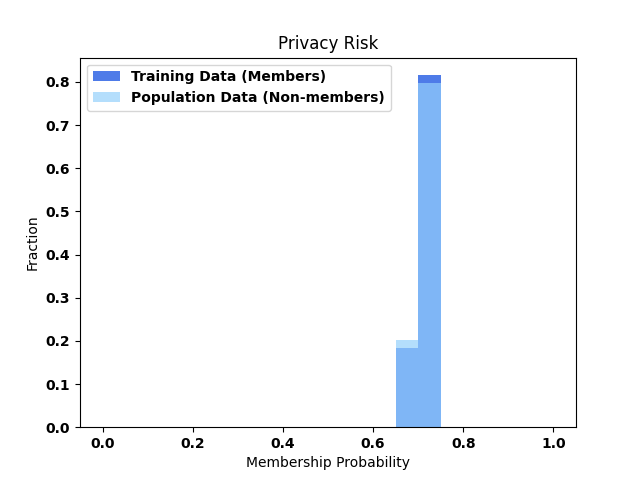
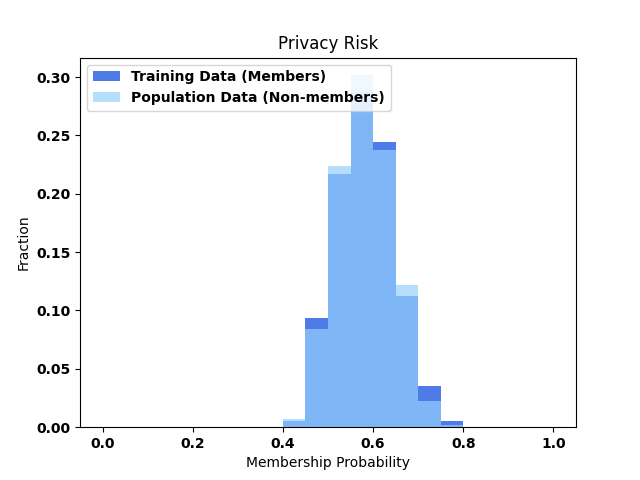
even more results

diff --git a/fltk/synthpriv/attack.py b/fltk/synthpriv/attack.py
@@ -319,8 +319,8 @@ if __name__ == "__main__":
 
     trainset = dataset.train_dataset
     testset = dataset.test_dataset
-    trainsize = min(len(trainset), 25000 if not args.dataset == "cifar" else 15000)
-    testsize = min(len(testset), 10000 if not args.dataset == "cifar" else 6000)
+    trainsize = 5000 # min(len(trainset), 25000 if not args.dataset == "cifar" else 15000)
+    testsize = 2500 # min(len(testset), 10000 if not args.dataset == "cifar" else 6000)
     print(f"Train set size: {trainsize}, Test set size: {testsize}")
 
     trainset_member, testset_member, trainset_nonmember, testset_nonmember = [], [], [], []

diff --git a/fltk/synthpriv/attacks/feature_sets/whitebox.py b/fltk/synthpriv/attacks/feature_sets/whitebox.py
@@ -51,7 +51,6 @@ class WhiteBoxFeatureSet(FeatureSet):
             batch = torch.from_numpy(batch).cuda()
             lbls = torch.from_numpy(np.nan_to_num(lbls)).long().cuda()
 
-            print(self.models[0].__class__.__name__)
             outputs = [
                 model(
                     batch
